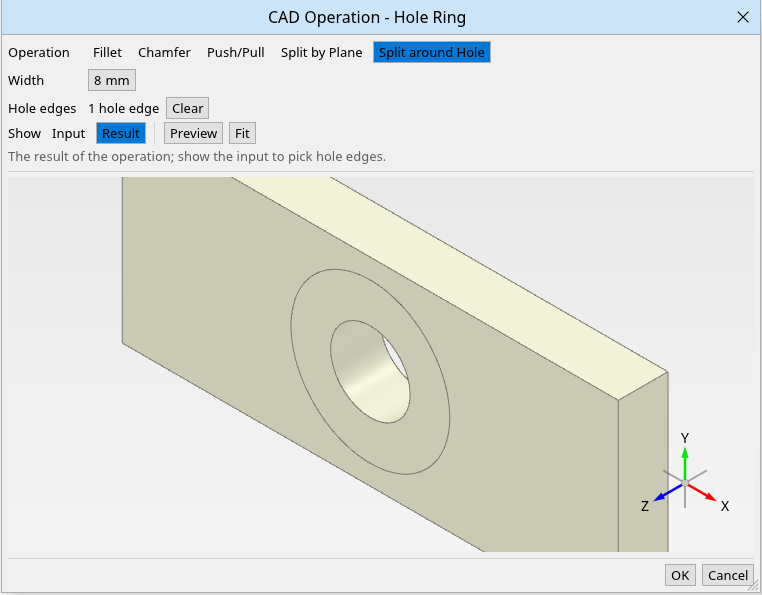
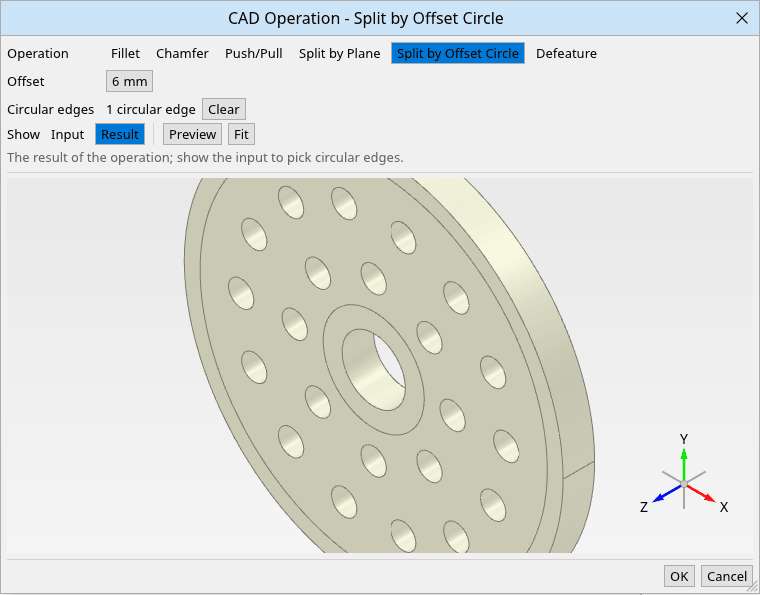
Split by Offset Circle: negative offsets split inwards
Split around Hole becomes Split by Offset Circle: the offset may be
negative, which splits a ring off along the outer rim of a disc. A
circle shrunk to nothing or one that cuts no face is refused with the
reason. Tree label, Modify tool, tooltip and editor hint renamed; user
guide updated with new screenshots.

Claude-Session: https://claude.ai/code/session_0117wmBPrvpi4JpiUEFPGgMA

diff --git a/crates/plx-mesher/src/split.rs b/crates/plx-mesher/src/split.rs
@@ -1,5 +1,5 @@
 //! Splits of the geometry with OpenCASCADE through Gmsh: parts and faces cut along a plane,
-//! and planar faces cut around holes into a ring and the rest, see
+//! and planar faces cut along a circle offset from a circular edge, see
 //! [`plx_model::CadOperationKind::SplitPlane`] and [`plx_model::CadOperationKind::HoleRing`].
 
 use std::collections::{BTreeMap, BTreeSet};
@@ -262,17 +262,19 @@ pub(crate) fn split_by_plane(
     Ok(Split { places, compounds })
 }
 
-/// Splits the planar faces around the picked circular edges of holes into a ring of the
-/// width of `operation` and the rest, the solids and shells keeping all their other faces.
+/// Splits the planar faces the picked circular edges bound along circles of the same centre,
+/// offset from the edges by the offset of `operation`: outwards when it is positive, a ring
+/// around a hole; inwards when negative, a ring along the rim of a disc. The solids and shells
+/// keep all their other faces.
 pub(crate) fn split_around_holes(
     gmsh: &Gmsh,
     input: &Geometry,
     operation: &CadOperation,
     entities: &[CadEntity],
 ) -> Result<Split, GmshError> {
-    let width = operation.value;
-    if width <= 0.0 {
-        return Err(fail("The width of the ring must be greater than 0"));
+    let offset = operation.value;
+    if offset == 0.0 {
+        return Err(fail("The offset of the circle must not be 0"));
     }
     let parts = parts(gmsh, input)?;
     let owner_of_face = |face: i32| -> Result<Option<usize>, GmshError> {
@@ -287,14 +289,14 @@ pub(crate) fn split_around_holes(
     let mut rings: BTreeMap<usize, Vec<Ring>> = BTreeMap::new();
     for entity in entities {
         let CadEntity::Edge(edge) = *entity else {
-            return Err(fail("Split around Hole picks the circular edges of holes"));
+            return Err(fail("Split by Offset Circle picks circular edges"));
         };
         if !gmsh.entities(1)?.contains(&edge) {
             return Err(fail(format!("The geometry has no edge {edge}")));
         }
         // Circles may come as circles, ellipses of equal axes or splines: any edge whose
         // points lie on the circle through three of them.
-        let round = || fail("Split around Hole needs circular edges of holes");
+        let round = || fail("Split by Offset Circle needs circular edges");
         let (centre, radius, normal) = circle(gmsh, edge).map_err(|_| round())?;
         let (min, max) = gmsh.parameter_bounds(1, edge)?;
         let along: Vec<f64> = (0..=8)
@@ -325,12 +327,17 @@ pub(crate) fn split_around_holes(
             }
         }
         let face = face.ok_or_else(|| {
-            fail("A picked hole edge bounds no planar face at right angles to the hole")
+            fail("A picked circular edge bounds no planar face at right angles to its axis")
         })?;
         let owner = owner_of_face(face)?
-            .ok_or_else(|| fail("A picked hole edge lies on no part of the geometry"))?;
+            .ok_or_else(|| fail("A picked circular edge lies on no part of the geometry"))?;
         let list = rings.entry(owner).or_default();
-        let outer = radius + width;
+        let outer = radius + offset;
+        if outer <= 0.0 {
+            return Err(fail(format!(
+                "An offset of {offset} shrinks a circle of radius {radius} to nothing"
+            )));
+        }
         let same = list.iter().any(|(c, r, _)| {
             distance(*c, centre) < 1e-6 * radius && (r - outer).abs() < 1e-6 * outer
         });
@@ -339,7 +346,7 @@ pub(crate) fn split_around_holes(
         }
     }
     if rings.is_empty() {
-        return Err(fail("No hole edges picked"));
+        return Err(fail("No circular edges picked"));
     }
     let mut places = Vec::new();
     for (index, (shape, name)) in parts.iter().enumerate() {
@@ -348,6 +355,7 @@ pub(crate) fn split_around_holes(
             continue;
         };
         let objects: Vec<Entity> = shape.entities().collect();
+        let faces_before = gmsh.entities(2)?.len();
         let mut disks = Vec::with_capacity(list.len());
         for &(centre, outer, normal) in list {
             disks.push((2, gmsh.add_disk(centre, outer, normal)?));
@@ -357,6 +365,14 @@ pub(crate) fn split_around_holes(
                 "OpenCASCADE could not split the faces of {name}: {e}"
             ))
         })?;
+        // A circle that misses the face, one shrunk into a hole or grown beyond a rim, cuts
+        // nothing.
+        if gmsh.entities(2)?.len() <= faces_before {
+            return Err(fail(format!(
+                "The offset circle cuts no face of {name}: around a hole the offset must be \
+                 positive, along the outer rim of a face negative"
+            )));
+        }
         let made: Vec<Entity> = pieces.into_iter().flatten().collect();
         if made.len() != objects.len() && shape.dim == 3 {
             return Err(fail(format!(

diff --git a/crates/plx-model/src/cad_operation.rs b/crates/plx-model/src/cad_operation.rs
@@ -1,7 +1,6 @@
 //! CAD operations on geometry: a fillet or a chamfer of picked edges, a planar face moved
-//! along its normal, parts and faces split along a plane or faces split around holes, which
-//! a block of the
-//! project schematic applies to the geometry linked to it, so that a parameter study can
+//! along its normal, parts and faces split along a plane or faces split along a circle offset
+//! from a circular edge, which a block of the project schematic applies to the geometry linked to it, so that a parameter study can
 //! vary a radius like any other number.
 
 use plx_mesh::{CadEntity, Fnv};
@@ -25,8 +24,10 @@ pub enum CadOperationKind {
     /// faces that share the cut edge; one side may be dropped. The plane is a plane of the
     /// global coordinate system or one of a picked planar face, shifted by an offset.
     SplitPlane,
-    /// Splits the planar face around a hole into a ring of a width and the rest, so that the
-    /// ring can be picked on its own: for loads and supports next to a hole.
+    /// Splits the planar face a circular edge bounds along a circle of the same centre,
+    /// offset from the edge: outwards when the offset is positive, a ring around a hole for
+    /// loads and supports next to it; inwards when it is negative, a ring along the rim of a
+    /// disc. Either way the ring can be picked on its own.
     HoleRing,
     /// Removes fillets and chamfers: the faces next to them grow until they meet again, so
     /// that a fillet of a STEP file can be replaced by one of a CAD operation that a study
@@ -51,7 +52,7 @@ impl CadOperationKind {
             Self::Chamfer => "Chamfer",
             Self::PushPull => "Push/Pull",
             Self::SplitPlane => "Split by Plane",
-            Self::HoleRing => "Split around Hole",
+            Self::HoleRing => "Split by Offset Circle",
             Self::Defeature => "Defeature",
         }
     }
@@ -66,8 +67,7 @@ impl CadOperationKind {
         match self {
             Self::Fillet => "Radius",
             Self::Chamfer => "Distance",
-            Self::PushPull | Self::SplitPlane => "Offset",
-            Self::HoleRing => "Width",
+            Self::PushPull | Self::SplitPlane | Self::HoleRing => "Offset",
             Self::Defeature => "Max Size",
         }
     }
@@ -77,8 +77,7 @@ impl CadOperationKind {
         match self {
             Self::Fillet => "radius",
             Self::Chamfer => "distance",
-            Self::PushPull | Self::SplitPlane => "offset",
-            Self::HoleRing => "width",
+            Self::PushPull | Self::SplitPlane | Self::HoleRing => "offset",
             Self::Defeature => "max_size",
         }
     }
@@ -102,7 +101,7 @@ impl CadOperationKind {
         match self {
             Self::Fillet | Self::Chamfer => "edges",
             Self::PushPull | Self::SplitPlane | Self::Defeature => "faces",
-            Self::HoleRing => "hole edges",
+            Self::HoleRing => "circular edges",
         }
     }
 
@@ -111,13 +110,13 @@ impl CadOperationKind {
         match self {
             Self::Fillet | Self::Chamfer => "edge",
             Self::PushPull | Self::SplitPlane | Self::Defeature => "face",
-            Self::HoleRing => "hole edge",
+            Self::HoleRing => "circular edge",
         }
     }
 
     /// Whether its length may be negative: an offset inwards.
     pub fn signed(self) -> bool {
-        matches!(self, Self::PushPull | Self::SplitPlane)
+        matches!(self, Self::PushPull | Self::SplitPlane | Self::HoleRing)
     }
 }
 

diff --git a/crates/plx-mesher/src/tests.rs b/crates/plx-mesher/src/tests.rs
@@ -2811,7 +2811,7 @@ fn a_shell_of_several_faces_splits_into_two_shells() {
 }
 
 #[test]
-fn a_hole_gets_a_ring_face_of_its_width() {
+fn a_hole_gets_a_ring_face_of_its_offset() {
     use plx_model::CadOperationKind::HoleRing;
     if !gmsh_available() {
         return;
@@ -2883,6 +2883,60 @@ fn a_hole_in_a_shell_gets_a_ring_face() {
     let ring = std::f64::consts::PI * (7.0f64.powi(2) - 5.0f64.powi(2));
     assert!((areas[0] - ring).abs() < 1e-3, "{areas:?}");
     assert_eq!(generate_mesh(&ringed).unwrap().mesh.parts.len(), 1);
+}
+
+#[test]
+fn a_negative_offset_splits_a_ring_off_the_rim_of_a_disc() {
+    use plx_model::CadOperationKind::HoleRing;
+    if !gmsh_available() {
+        return;
+    }
+    let input = made_geometry(|gmsh| {
+        gmsh.add_cylinder([0.0; 3], [0.0, 0.0, 5.0], 20.0)?;
+        Ok(())
+    });
+    let top_faces = |g: &Geometry| {
+        (g.signatures.iter())
+            .filter(|s| s.entity.dim() == 2 && s.kind == "Plane")
+            .filter(|s| (s.centroid[2] - 5.0).abs() < 1e-6 && s.max[2] - s.min[2] < 1e-3)
+            .map(|s| s.size)
+            .collect::<Vec<_>>()
+    };
+    // The outer rim of the top face.
+    let rim = (input.signatures.iter())
+        .find(|s| s.entity.dim() == 1 && s.kind != "Line" && (s.centroid[2] - 5.0).abs() < 1e-6)
+        .unwrap()
+        .entity;
+    let ringed = apply_operation(&input, &split(HoleRing, -3.0), &[rim]).unwrap();
+    assert_eq!(part_names(&ringed).unwrap(), part_names(&input).unwrap());
+    let before = solid_volume(&input);
+    assert!((solid_volume(&ringed) - before).abs() < 1e-6 * before);
+    let mut areas = top_faces(&ringed);
+    areas.sort_by(f64::total_cmp);
+    assert_eq!(areas.len(), 2, "{areas:?}");
+    let ring = std::f64::consts::PI * (20.0f64.powi(2) - 17.0f64.powi(2));
+    let inner = std::f64::consts::PI * 17.0f64.powi(2);
+    assert!((areas[0] - ring).abs() < 1e-3, "{areas:?}");
+    assert!((areas[1] - inner).abs() < 1e-3, "{areas:?}");
+    assert_eq!(generate_mesh(&ringed).unwrap().mesh.parts.len(), 1);
+    // Shrunk past its centre, the circle is gone.
+    let error = apply_operation(&input, &split(HoleRing, -25.0), &[rim]).unwrap_err();
+    assert!(error.to_string().contains("to nothing"), "{error}");
+}
+
+#[test]
+fn a_negative_offset_inside_a_hole_cuts_nothing() {
+    use plx_model::CadOperationKind::HoleRing;
+    if !gmsh_available() {
+        return;
+    }
+    let input = plate_with_hole();
+    let edge = (input.signatures.iter())
+        .find(|s| s.entity.dim() == 1 && s.kind != "Line" && (s.centroid[2] - 5.0).abs() < 1e-6)
+        .unwrap()
+        .entity;
+    let error = apply_operation(&input, &split(HoleRing, -2.0), &[edge]).unwrap_err();
+    assert!(error.to_string().contains("cuts no face"), "{error}");
 }
 
 #[test]

diff --git a/crates/plx-app/src/cad_editor.rs b/crates/plx-app/src/cad_editor.rs
@@ -316,7 +316,7 @@ impl CadOperationEditor {
             Some(edge @ CadEntity::Edge(_)) => Some(edge),
             _ => crate::geometry_selection::edge_at(view, &hit).map(CadEntity::Edge),
         }?;
-        // The edges of holes are curved.
+        // Circular edges are curved.
         let straight = (self.input.signatures.iter()).any(|s| s.entity == edge && s.kind == "Line");
         (self.kind != CadOperationKind::HoleRing || !straight).then_some(edge)
     }
@@ -598,9 +598,10 @@ impl CadOperationEditor {
                          the tilt turns it about an axis through that point.",
                         self.split_scope()
                     ),
-                    CadOperationKind::HoleRing => "Click the circular edges of holes on planar \
-                        faces; each face gets a ring of the width around the hole, a face of \
-                        its own to pick. A click on a picked edge removes it."
+                    CadOperationKind::HoleRing => "Click circular edges on planar faces; each \
+                        face is split along a circle offset from the edge, a ring of its own to \
+                        pick: a positive offset goes outwards (around a hole), a negative one \
+                        inwards (along the rim of a disc). A click on a picked edge removes it."
                         .to_owned(),
                     CadOperationKind::Defeature if self.finding() => match &self.found {
                         Some((_, Err(why))) => format!("The faces could not be found: {why}"),

diff --git a/crates/plx-app/src/icons.rs b/crates/plx-app/src/icons.rs
@@ -1086,8 +1086,8 @@ fn pipette(shapes: &mut Vec<Shape>, r: Rect) {
 /// The cube of the view icons cut in half, its section face in the accent colour inside the
 /// outline of the cutting plane.
 /// The icons of the CAD operations: a block seen from the side for those that change an
-/// edge or a face, a block cut in two for Split by Plane, a plate with a hole for Split
-/// around Hole. What the operation makes is in the accent colour.
+/// edge or a face, a block cut in two for Split by Plane, a plate with a hole for Split by
+/// Offset Circle. What the operation makes is in the accent colour.
 fn cad_operation(shapes: &mut Vec<Shape>, kind: plx_model::CadOperationKind, r: Rect) {
     use plx_model::CadOperationKind as K;
     let p = |x: f32, y: f32| pos2(r.left() + x, r.top() + y);

diff --git a/crates/plx-app/src/undo.rs b/crates/plx-app/src/undo.rs
@@ -8,8 +8,8 @@
 //! changes that replaced it; [`crate::model::Model::set_mesh`] hands the mesh it replaces to
 //! the history.
 //!
-//! Changes of the geometry's shapes by the CAD tools (Defeature, Split by Plane, Split around
-//! Hole) can be undone: [`before_shape_change`] keeps the geometry, the mesh and the FE model
+//! Changes of the geometry's shapes by the CAD tools (Defeature, Split by Plane, Split by
+//! Offset Circle) can be undone: [`before_shape_change`] keeps the geometry, the mesh and the FE model
 //! as they were. Other changes of the shapes (an import, deleted geometry parts, a new unit
 //! system) cannot be undone; the history starts anew after them.
 

diff --git a/crates/plx-app/src/command.rs b/crates/plx-app/src/command.rs
@@ -956,8 +956,10 @@ fn build() -> Vec<Command> {
         ),
         (
             plx_model::CadOperationKind::HoleRing,
-            "Split\naround Hole",
-            "Splits the face around a hole into a ring of a width, a face of its own to pick.",
+            "Split by\nOffset Circle",
+            "Splits the face a circular edge bounds along a circle offset from it: outwards \
+             around a hole, inwards along the rim of a disc for a negative offset. The ring is \
+             a face of its own to pick.",
         ),
     ] {
         add(command(

diff --git a/crates/plx-app/src/app/cad_tool.rs b/crates/plx-app/src/app/cad_tool.rs
@@ -1,5 +1,5 @@
 //! The CAD tools of the Geometry workspace: Fillet, Chamfer, Push/Pull, Defeature, Split by
-//! Plane and Split around Hole, set up in the editor of the CAD Operation block, each a tool
+//! Plane and Split by Offset Circle, set up in the editor of the CAD Operation block, each a tool
 //! of its own under Modify. Each becomes an operation of the
 //! Geometry tree ([`plx_model::Geometry::operations`]), a step of a pipeline from the shapes
 //! as imported or linked, as a CAD Operation block before the analysis would be: it can be
